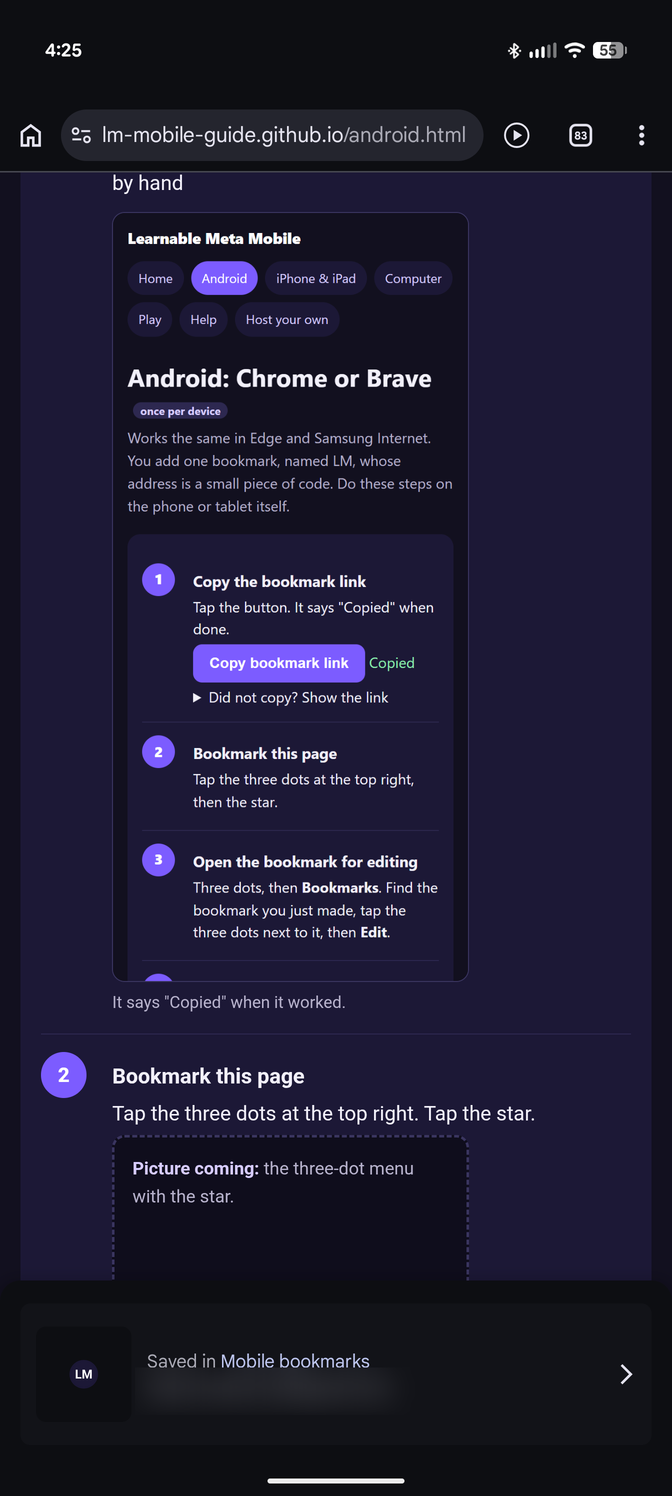
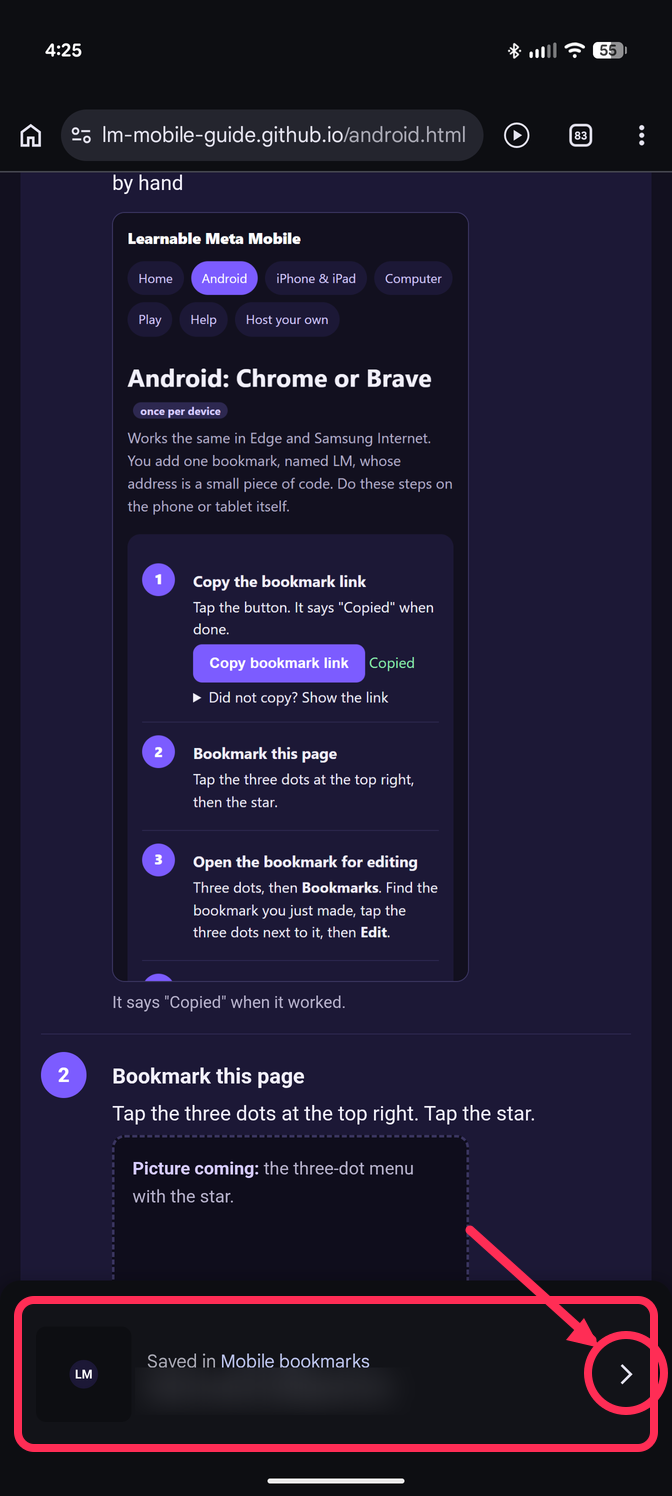
Guide: tap the Saved bar to open the bookmark directly

Changed region(s): [[0.0, 0.8302, 1.0, 0.984], [0.6875, 0.7995, 0.7188, 0.8302]]

diff --git a/docs/android.html b/docs/android.html
@@ -47,8 +47,8 @@
             <figcaption>The star is at the top of the menu.</figcaption>
           </figure>
           <figure class="phone">
-            <img src="img/android-saved.png" alt="Chrome shows Saved in Mobile bookmarks at the bottom" loading="lazy">
-            <figcaption>"Saved in Mobile bookmarks" appears at the bottom.</figcaption>
+            <img src="img/android-saved.png" alt="Chrome shows a Saved in Mobile bookmarks bar at the bottom; tap it to open the bookmark" loading="lazy">
+            <figcaption>"Saved in Mobile bookmarks" appears at the bottom. <b>Tap that bar</b> to open the bookmark straight away and skip step 3.</figcaption>
           </figure>
         </div>
       </div>
@@ -58,7 +58,8 @@
       <div class="num">3</div>
       <div>
         <h3>Open the bookmark's settings</h3>
-        <p>Tap the three dots again. Tap <b>Bookmarks</b>. Next to the bookmark you just made, tap its three dots. Tap <b>Edit</b>.</p>
+        <p>Fastest: tap the <b>"Saved in Mobile bookmarks"</b> bar from step 2 while it is still showing.</p>
+        <p>If it is gone: tap the three dots again. Tap <b>Bookmarks</b>. Next to the bookmark you just made, tap its three dots. Tap <b>Edit</b>.</p>
         <figure class="phone">
           <img src="img/android-edit-before.png" alt="The Edit bookmark screen with the page's name and address" loading="lazy">
           <figcaption>The Edit bookmark screen. Next you change both fields.</figcaption>
